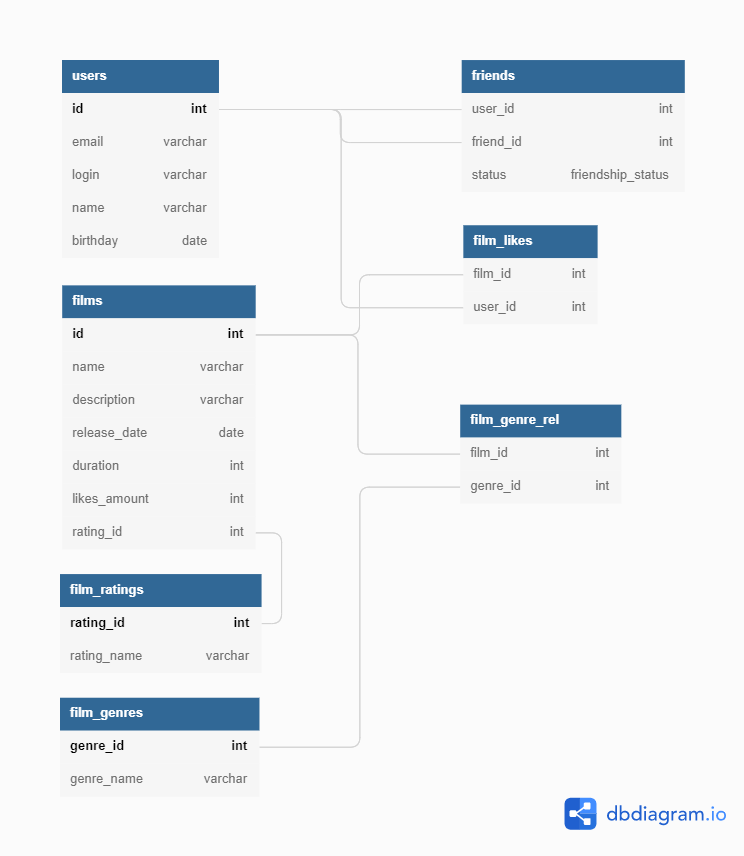
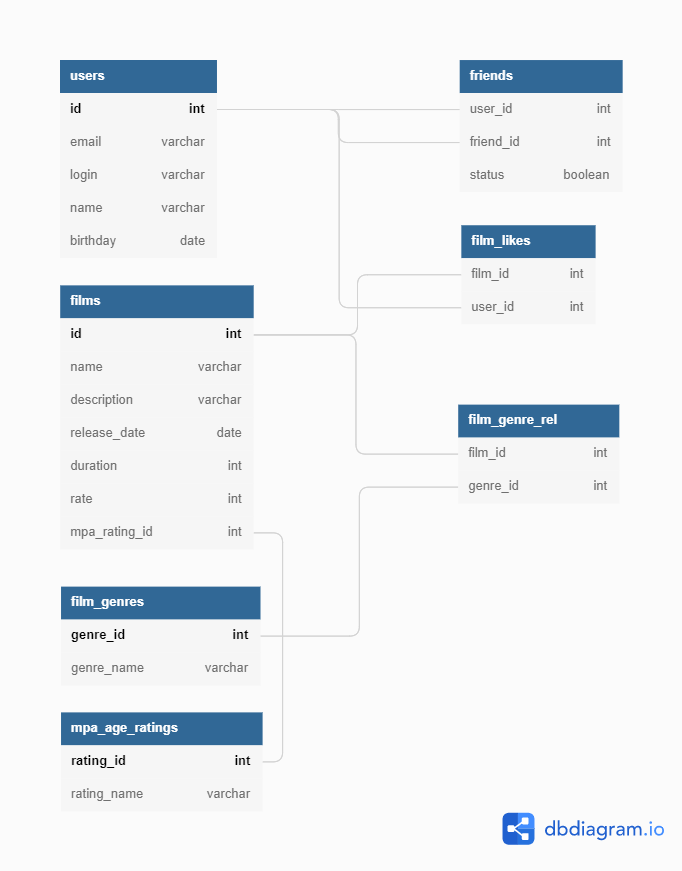
style: изменить имя таблицы с рейтингами на ER диаграмме, добавить описание таблиц в readme.md

diff --git a/README.md b/README.md
@@ -4,6 +4,15 @@ ___
 
 Схема БД в виде ER диаграммы представлена [здесь](https://github.com/mainnpe/java-filmorate/blob/main/src/main/resources/ER_diagram.png).
 
+#### Основная информация о таблицах.
+1. **users** - информация о пользователях
+2. **friends** - информация о друзьях пользователя. Поле status: true - если дружба между пользователями подтверждена, false - не подтверждена.
+3. **films** - информация о фильмах
+4. **film_genres** - содержит перечень всех жанров кино
+5. **mpa_age_ratings** - содержит перечень возрастных рейтингов Ассоциации кинокомпаний (Motion Picture Association, сокращённо МРА)
+6. **film_genre_rel** - соотнесение фильма с жанрами.
+7. **film_likes** - перечень лайков, поставленных пользователями фильму.
+
 #### Примеры основных SQL запросов для выгрузки данных о фильмах и пользователях.
 
 
@@ -36,7 +45,7 @@ WHERE id IN (SELECT friend_id
 ```sql
 SELECT *
 FROM users
-WHERE id IN (SELECT friend_id
+WHERE id IN (SELECT DISTINCT friend_id
              FROM friends
              WHERE user_id = ? --id1
                   AND friend_id <> ? --id2
@@ -52,19 +61,19 @@ WHERE id IN (SELECT friend_id
 * Все фильмы:
 
 ```sql
-SELECT f.*, fr.rating_name
+SELECT f.*, mar.rating_name
 FROM films f
-JOIN film_ratings fr
-	ON f.rating_id = fr.rating_id;
+JOIN mpa_age_ratings mar
+	ON f.mpa_rating_id = mar.rating_id;
 ```
 	
 * Фильм с определенным *{id}*:
 
 ```sql
-SELECT f.*, fr.rating_name
+SELECT f.*, mar.rating_name
 FROM films f
-JOIN film_ratings fr
-	ON f.rating_id = fr.rating_id
+JOIN mpa_age_ratings mar
+  ON f.mpa_rating_id = mar.rating_id
 WHERE f.id = ?;
 ```
 
@@ -81,10 +90,10 @@ WHERE fgr.film_id = ?;
 * Список *{N}* самых популярных фильмов:
 
 ```sql
-SELECT f.*, fr.rating_name
+SELECT f.*, mar.rating_name
 FROM films f
-JOIN film_ratings fr
-	ON f.rating_id = fr.rating_id
-ORDER BY likes_amount DESC
+JOIN mpa_age_ratings mar
+  ON f.mpa_rating_id = mar.rating_id
+ORDER BY rate DESC
 LIMIT ?;
 ```
